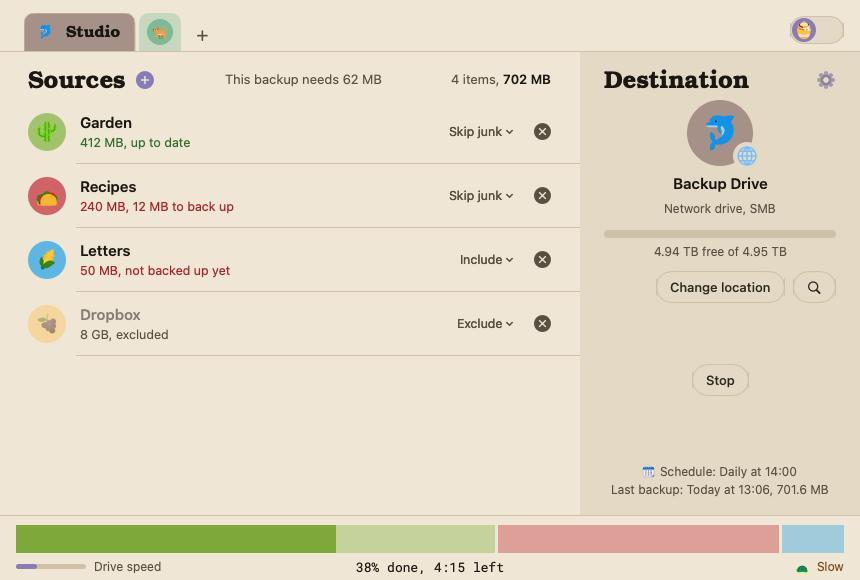
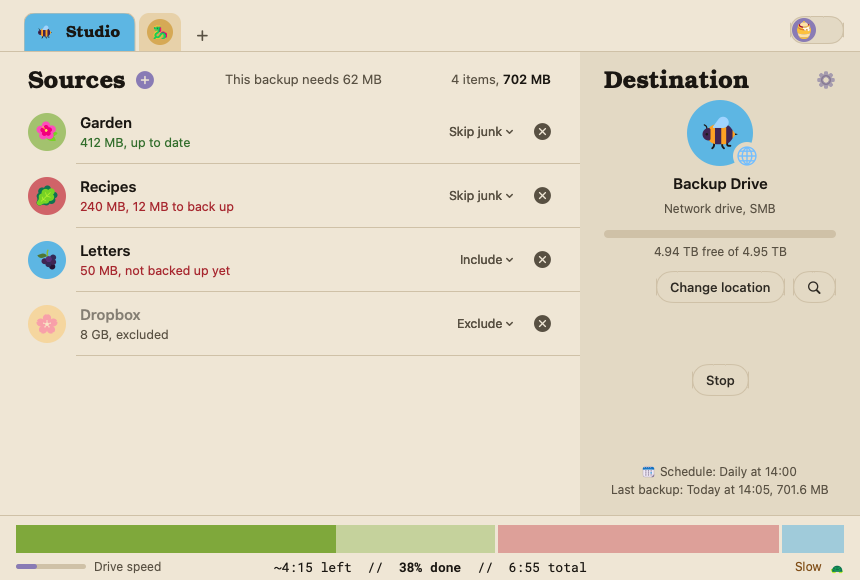
Archivist 0.0.23 — Clearer time line under the bar; files in use are retried at the end.

diff --git a/Archivist/JobView.swift b/Archivist/JobView.swift
@@ -76,7 +76,7 @@ struct JobView: View {
                                     .buttonStyle(.plain).foregroundStyle(Palette.soft)
                             }
                             ScrollView { Problems(list: runner.problems).frame(maxWidth: .infinity, alignment: .leading) }
-                            Text("Start the backup again to try these once more.").font(Typeface.text(12)).foregroundStyle(Palette.soft)
+                            Text("Files in use were tried again at the end; the next backup copies the rest.").font(Typeface.text(12)).foregroundStyle(Palette.soft)
                         }
                         .padding(24)
                         .frame(width: SettingsSheet.width).frame(maxHeight: min(420, g.size.height - 32))
@@ -288,11 +288,11 @@ struct SourcesPane: View {
                         .lineLimit(1)
                         .offset(y: 1.5)
                 }
-                if needed > 0 { Spacer() }
-                if !view.runner.running && !view.runner.problems.isEmpty {   // something failed: a click opens the list
+                if !view.runner.running && !view.runner.problems.isEmpty {   // something wasn't copied: a click opens the list
                     Button { NotificationCenter.default.post(name: .showProblems, object: nil) } label: { Emoji(name: "warning", size: 16) }
                         .buttonStyle(.plain).help("Some files weren't copied").offset(y: 1.5)
                 }
+                if needed > 0 { Spacer() }
                 if !job.sources.isEmpty {
                     (Text("\(job.sources.count) \(job.sources.count == 1 ? "item" : "items"), ")
                      + Text(bytes(total)).fontWeight(.semibold).foregroundColor(Palette.ink))
@@ -662,16 +662,27 @@ struct BottomBar: View {
                             .animation(.easeInOut(duration: 1), value: pace)
                             Text("Drive speed").font(Typeface.text(12)).foregroundStyle(Palette.soft)
                             Spacer()
-                            Emoji(name: icon, size: 14)
                             Text(word).font(Typeface.text(12)).foregroundStyle(pace >= 0.4 ? Palette.soft : Palette.warn)
+                            Emoji(name: icon, size: 14)   // at the edge: the word can change length, the icon stays put
                         }
                     }
-                    Text(r.stopping ? "Stopping…" : r.finishing ? "Finishing…"
-                         : r.running ? (estimating ? "Calculating time left…" : "\(Int(r.steadyFraction(at: tl.date) * 100))% done, \(r.etaWords(at: tl.date))")
-                         : (job.ready && view.destinationState == .present ? "Ready to start" : " "))
-                        .font(r.running && !estimating ? Typeface.number(12.5) : Typeface.text(12))
-                        .foregroundStyle(r.running ? Palette.ink : Palette.soft)
-                        .frame(maxWidth: .infinity)
+                    if r.running && !estimating && !r.stopping && !r.finishing, let left = r.remaining(at: tl.date) {
+                        // "~6:15 left  //  67% done  //  17:15 total": the percent sits on the app's middle.
+                        HStack(spacing: 0) {
+                            Text("~\(Runner.clock(left)) left  //  ").frame(maxWidth: .infinity, alignment: .trailing)
+                            Text("\(Int(r.steadyFraction(at: tl.date) * 100))% done").fontWeight(.semibold).fixedSize()
+                            Text("  //  \(Runner.clock(r.elapsed + left)) total").frame(maxWidth: .infinity, alignment: .leading)
+                        }
+                        .font(Typeface.number(12.5)).foregroundStyle(Palette.ink)
+                        .padding(.horizontal, 150)   // clear of the speed meter and word at the ends
+                    } else {
+                        Text(r.stopping ? "Stopping…" : r.finishing ? "Finishing…"
+                             : r.running ? "Calculating time left…"
+                             : (job.ready && view.destinationState == .present ? "Ready to start" : " "))
+                            .font(Typeface.text(12))
+                            .foregroundStyle(r.running ? Palette.ink : Palette.soft)
+                            .frame(maxWidth: .infinity)
+                    }
                     }
                     .frame(height: 27)   // centred between the bar and the window's bottom edge
                 }

diff --git a/ArchivistCore/Sources/ArchivistCore/Engine.swift b/ArchivistCore/Sources/ArchivistCore/Engine.swift
@@ -108,6 +108,8 @@ public final class Engine {
     private var stamp = ""
     private var newPaths = Set<String>()
     private var deadRunStarted: Double?
+    private var busy: [Entry] = []          // files that kept changing: tried again once at the end
+    private var retryingBusy = false
     public var onProgress: ((Progress) -> Void)?
     private var stopped = false
 
@@ -301,6 +303,10 @@ public final class Engine {
             report.pastFolder = retired > 0 ? pastFolder : nil
             return report
         }
+        if !busy.isEmpty && !isStopped {   // a file in use may be closed by now (an editor saving, git writing)
+            retryingBusy = true
+            runLane(busy, width: 1, cloneOK: cloneOK)
+        }
         for (e, first) in linkLater { link(e, to: firstOfInode[e.inode] ?? first) }
 
         // Folder dates and metadata last (writing files inside changed them), deepest first.
@@ -405,7 +411,10 @@ public final class Engine {
             let mtime = Double(after.st_mtimespec.tv_sec) + Double(after.st_mtimespec.tv_nsec) / 1e9
             if (e.kind == .file && after.st_size != e.size) || abs(mtime - e.mtime) > 0.000_001 {
                 unlink(temp)
-                if attempt == 4 { note(ArchivistError.changedDuringCopy(e.path)) }
+                if attempt == 4 {   // in use right now: once more at the end of the run, then the next backup
+                    lock.lock(); let later = !retryingBusy; if later { busy.append(e) }; lock.unlock()
+                    if !later { note(ArchivistError.changedDuringCopy(e.path)) }
+                }
                 continue
             }
             // Lock flags off on the temp; restored after the rename with the ACL.

diff --git a/Archivist/Job.swift b/Archivist/Job.swift
@@ -519,6 +519,15 @@ final class Runner {
         return o.bytesTotal > 0 ? Double(o.bytes) / Double(o.bytesTotal) : 0
     }
 
+    /// "6:15", "1 h 05 min", "40 s".
+    static func clock(_ t: TimeInterval) -> String {
+        let s = Int(t.rounded())
+        if s < 60 { return "\(max(s, 1)) s" }
+        if s < 3600 { return String(format: "%d:%02d", s / 60, s % 60) }
+        return String(format: "%d h %02d min", s / 3600, (s % 3600) / 60)
+    }
+    var elapsed: TimeInterval { Date().timeIntervalSince(started) }
+
     func etaWords(at now: Date) -> String {
         guard progress.stage == .copying else { return "Looking for changes…" }
         guard let left = remaining(at: now) else { return "Working out the time left…" }

diff --git a/ArchivistCore/Sources/ArchivistCore/Drive.swift b/ArchivistCore/Sources/ArchivistCore/Drive.swift
@@ -138,7 +138,7 @@ public enum ArchivistError: Error, CustomStringConvertible {
         switch self {
         case let .io(call, path, e): return "\(call) \(path): \(String(cString: strerror(e)))"
         case let .refused(why): return why
-        case let .changedDuringCopy(path): return "\(path) kept changing while it was copied; try again when it is closed"
+        case let .changedDuringCopy(path): return "\(path): in use, copied next backup"
         }
     }
 }
